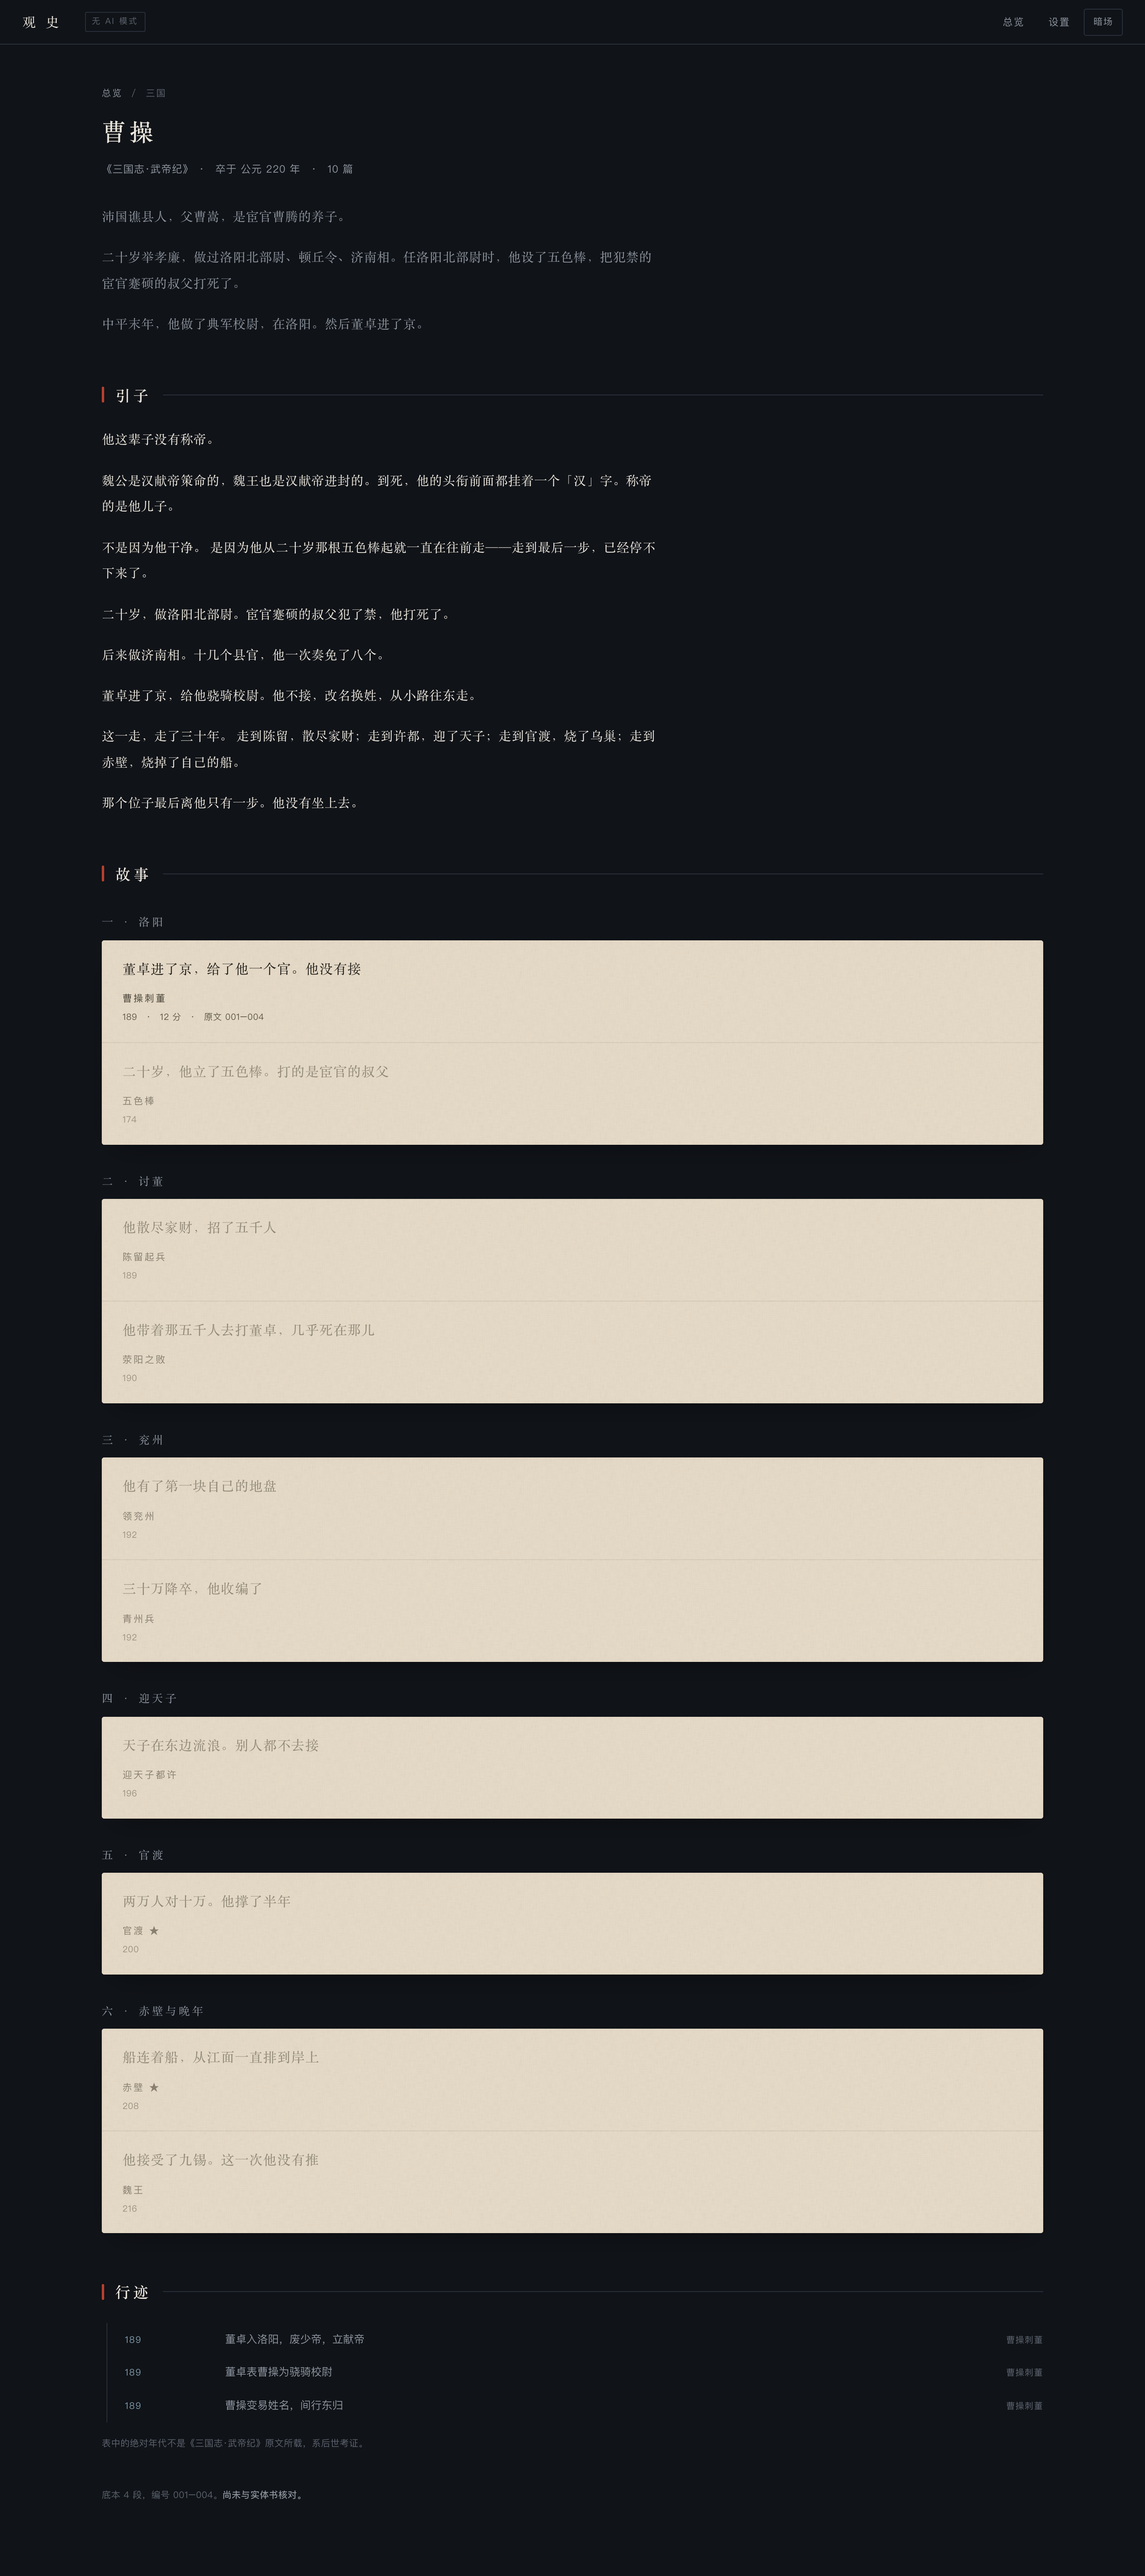
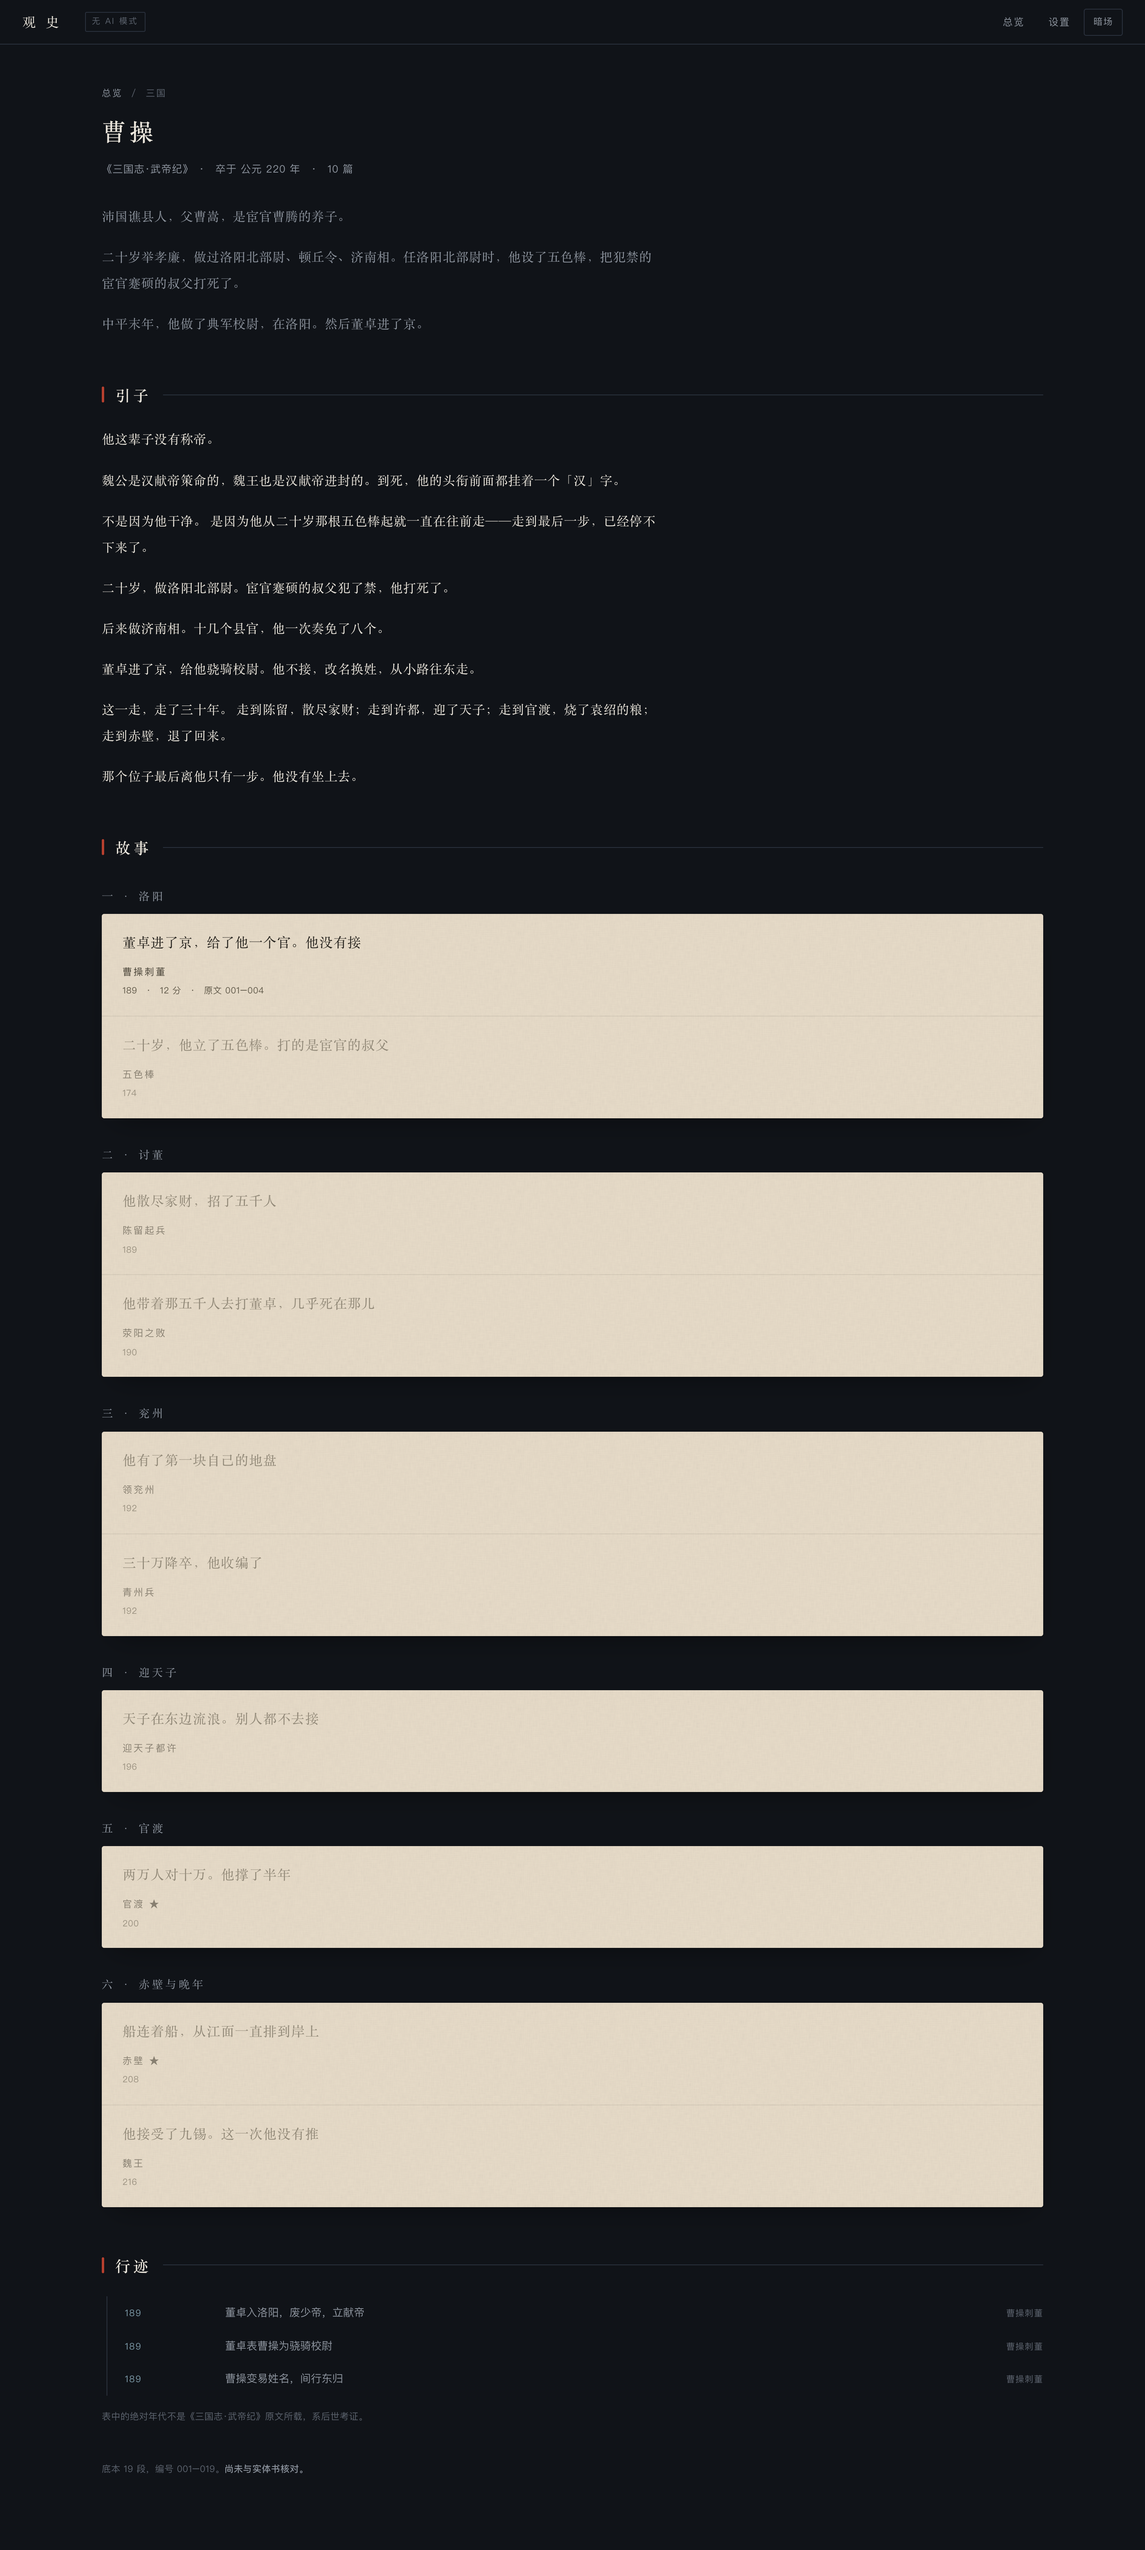
人物页补底本 005–019；正文与注分开排；图例解释「外证」
A · 人物页的底本
曹操 person.md 的「他是谁」「引子」讲了七件 source.md 里没有的事——那份底本
当时只有 4 段，全是刺董那一刻。现在补到 19 段。

005–019 由**两路独立回忆**写出（两个互不通气的核对员分别默写，只收对得上、
能互相解释的句子）。两路一致不等于核对过，source.md 里写明了这一点。
两路一致确认的三个否定，改了内容也改了底本：

· 「五色棒、杀蹇硕叔父」不在正文——006 正文只写到「除洛阳北部尉，迁顿丘令」，
  细节全在裴注引《曹瞒传》（007）
· 「烧乌巢」不在正文——013 正文止于「大破琼等，皆斩之」；放火燔粮出裴注引
  《曹瞒传》（015）。正文另有一处「尽烧其车」是徐晃史涣截运谷车（014），
  两件事容易并成一件
· 「赤壁烧船」不在正文——016 只有「与备战，不利……乃引军还」；「船舰为备所烧」
  出裴注引《山阳公载记》，「公烧其余船引退」出《吴主传》，**两说方向相反**
· 「称帝的是他儿子」《武帝纪》一字未载，引子里删掉这半句

引子改了两处：「烧了乌巢」→「烧了袁绍的粮」（014+015）；「烧掉了自己的船」→
「退了回来」（016）。

机制：person.md 元数据表新增 `| **底本** | 001–019 |`，编译器查声明了没有、
编号存不存在（6 例正反测）。它保证不了逐句对得上，但写的人得先回答"凭什么"。
规则 README 里一直写着，缺的是机制。

B · 正文和注分开
source.md 原文格支持 `注 · 裴松之注引《魏书》`；编译器读成 noted，
故事页「原文」页签把带标记的圈到分界线下面，挂小标题和来源小牌，
「依据」面板也缀上来源。不新增第五个标记字形——位置本身就是区分。
004 是王沈《魏书》，魏方官修史、只此一源，和 001–003 并排挂 ◆ 会让人
以为是两方互证。

C1 · 图例
「外证」「训释」全库 33 处，读者每处都看得见，图例里一句解释都没有。
加一行：○ 后面的小字是这条推演的依据来自哪里。

检查项 6313 → 6427；npm run verify 12/12。

diff --git a/web/components/StoryClient.jsx b/web/components/StoryClient.jsx
@@ -321,7 +321,7 @@ export default function StoryClient({ person, story, source }) {
                     <div key={id} className="lead">
                       「{source[id]?.text}」
                       <div style={{ fontSize: 11, color: 'var(--mo-mute)', marginTop: 6, letterSpacing: '.06em' }}>
-                        {person.sourceBook} {id}
+                        {person.sourceBook} {id}{source[id]?.noted ? ` · ${source[id].noted}` : ''}
                       </div>
                     </div>
                   ))}
@@ -343,20 +343,38 @@ export default function StoryClient({ person, story, source }) {
                 </div>
               )}
 
-              {tab === 'source' && (
-                <div className="panel-face paper anim-fade">
-                  <h3>本 篇 原 文 · {story.sourceRange}</h3>
-                  {Object.values(source).map((s) => (
-                    <div key={s.id} className="mark-block source">
-                      <div className="hd">
-                        <span className="glyph mk"><Marker ch="◆" size={11} /></span>
-                        <span className="src">{person.sourceBook} {s.id}</span>
-                      </div>
-                      <div className="quote">{s.text}</div>
+              {tab === 'source' && (() => {
+                /* 「注」和正文分开排。
+                   004「太祖尝私入中常侍张让室」是裴松之注引《魏书》，不是陈寿正文；
+                   和 001–003 并排、同样挂 ◆，读者会以为曹操闯张让室是《武帝纪》写的。
+                   标记不新增第五个字形（图例只有四个）——分段、加副标题和来源小牌，
+                   位置本身就是区分。 */
+                const all = Object.values(source)
+                const main = all.filter((s) => !s.noted)
+                const aside = all.filter((s) => s.noted)
+                const row = (s) => (
+                  <div key={s.id} className={`mark-block ${s.noted ? 'noted' : 'source'}`}>
+                    <div className="hd">
+                      <span className="glyph mk"><Marker ch="◆" size={11} /></span>
+                      {s.noted && <span className="tag">{s.noted}</span>}
+                      <span className="src">{person.sourceBook} {s.id}</span>
                     </div>
-                  ))}
-                </div>
-              )}
+                    <div className="quote">{s.text}</div>
+                  </div>
+                )
+                return (
+                  <div className="panel-face paper anim-fade">
+                    <h3>本 篇 原 文 · {story.sourceRange}</h3>
+                    {main.map(row)}
+                    {aside.length > 0 && (
+                      <>
+                        <h4 className="sub-head">以下几段不是正文，出自注</h4>
+                        {aside.map(row)}
+                      </>
+                    )}
+                  </div>
+                )
+              })()}
 
               {tab === 'backgrounds' && (
                 <div className="panel-face paper anim-fade">

diff --git a/web/app/globals.css b/web/app/globals.css
@@ -203,6 +203,9 @@ body.light-stage{
 .legend{display:flex;flex-wrap:wrap;gap:6px 18px;margin:16px 0;font-size:12px;color:var(--su-dim);letter-spacing:.03em}
 .legend span{display:inline-flex;align-items:center;gap:6px}
 .legend b{font-weight:400}
+/* 小字（外证／训释）的解释：整行另起，比四个标记低一档 */
+.legend .sub{flex-basis:100%;margin-top:2px;font-size:11.5px;line-height:1.9;color:var(--su-mute);letter-spacing:.02em}
+.legend .sub em{font-style:normal;color:var(--accent)}
 /* 全局规则说一次就够，不逐条重复 */
 .global-note{
   margin-top:14px;padding-top:12px;border-top:1px solid var(--beat-rule);
@@ -418,6 +421,19 @@ body.light-stage{
 .mark-block.infer  .glyph,.mark-block.infer  .label{color:var(--cang)}
 .mark-block.doubt  .glyph,.mark-block.doubt  .label{color:var(--zhe)}
 .mark-block.silent .glyph,.mark-block.silent .label{color:var(--mo-mute)}
+/* 「本篇原文」里出自注的那一段。它仍然是原文，所以字形还是 ◆；
+   区分靠整块的色调和上方的小标题，不新增第五个标记。 */
+.mark-block.noted .quote{
+  background:rgba(90,84,76,.05);border-left-color:rgba(90,84,76,.38);color:var(--mo-dim);
+}
+.mark-block .tag{
+  font-size:10.5px;letter-spacing:.06em;color:var(--mo-mute);
+  border:1px solid var(--zhi-3);border-radius:2px;padding:1px 7px;white-space:nowrap;
+}
+.panel-face .sub-head{
+  margin:22px 0 0;padding-top:18px;border-top:1px solid var(--zhi-3);
+  font-size:11px;font-weight:400;letter-spacing:.2em;color:var(--su-dim);
+}
 .mark-block .quote{
   font-family:var(--f-song);font-size:14.5px;line-height:1.95;color:var(--mo);
   letter-spacing:.04em;background:rgba(184,64,47,.045);

diff --git a/web/components/RichText.jsx b/web/components/RichText.jsx
@@ -80,6 +80,14 @@ export function Legend() {
       <span><Marker ch="○" /> 合理推演，附推演链条</span>
       <span><Marker ch="△" /> 史书未载，后世有争议</span>
       <span><Marker ch="—" /> 史书未载，且推不出来</span>
+      {/* ○ 后面常跟一个小字（「外证」「训释」）。那是推演链条的**来源**，
+          全库 33 处，读者每一处都看得见，而这里原来一句解释都没有——
+          「外证」是训诂学的词，不是给读者看的。说一次就够。 */}
+      <b className="sub">
+        ○ 后面的小字是这条推演的依据来自哪里：
+        <em>外证</em>＝底本之外的材料（后世系年、注家训释），
+        <em>训释</em>＝对字词的解释。
+      </b>
     </div>
   )
 }

diff --git a/content/people/caocao/person.md b/content/people/caocao/person.md
@@ -5,6 +5,7 @@
 | **时代** | 三国 |
 | **卒年** | 公元 220 年 |
 | **出处** | 《三国志·武帝纪》 |
+| **底本** | 001–019 |
 | **故事** | 1 篇（架构实验） |
 | **状态** | ⬜ 骨架 |
 
@@ -24,7 +25,7 @@
 
 **他这辈子没有称帝。**
 
-魏公是汉献帝策命的，魏王也是汉献帝进封的。到死，他的头衔前面都挂着一个「汉」字。称帝的是他儿子。
+魏公是汉献帝策命的，魏王也是汉献帝进封的。到死，他的头衔前面都挂着一个「汉」字。
 
 **不是因为他干净。** 是因为他从二十岁那根五色棒起就一直在往前走——走到最后一步，已经停不下来了。
 
@@ -34,7 +35,7 @@
 
 董卓进了京，给他骁骑校尉。他不接，改名换姓，从小路往东走。
 
-**这一走，走了三十年。** 走到陈留，散尽家财；走到许都，迎了天子；走到官渡，烧了乌巢；走到赤壁，烧掉了自己的船。
+**这一走，走了三十年。** 走到陈留，散尽家财；走到许都，迎了天子；走到官渡，烧了袁绍的粮；走到赤壁，退了回来。
 
 那个位子最后离他只有一步。他没有坐上去。
 
@@ -54,6 +55,10 @@
 
 ## 原文底本
 
-《三国志·魏书·武帝纪》相关段落，共 **4 段**，编号 001–004。
+《三国志·魏书·武帝纪》。001–004 是刺董那一段的底本；005–019 支撑这一页的
+「他是谁」和「引子」。其中 **004、007、015 出自裴松之注，不是本纪正文**。
 
-**全部尚未与实体书核对。** 详见 [`source.md`](source.md)。
+**段数和编号以 [`source.md`](source.md) 为准**——页面上那行脚注是自动生成的，
+这份文档里不重复写数字，免得改了一处忘了另一处。
+
+**全部尚未与实体书核对。**

diff --git a/content/people/jingke/person.md b/content/people/jingke/person.md
@@ -5,6 +5,7 @@
 | **时代** | 战国末 |
 | **卒年** | 公元前 227 年 |
 | **出处** | 《史记·刺客列传》 |
+| **底本** | 001–091 |
 | **故事** | 7 篇 ＋ 尾声 |
 | **状态** | ✅ 首篇已实现 |
 
